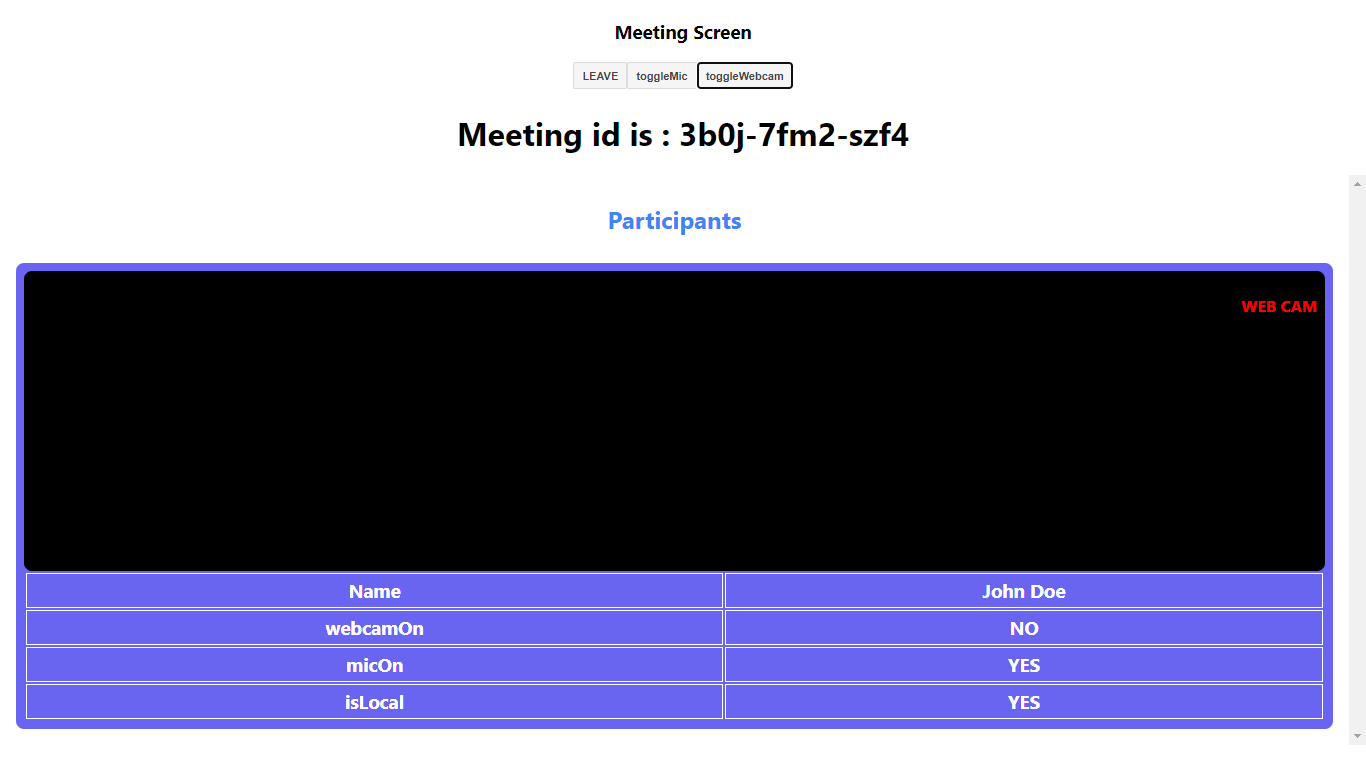
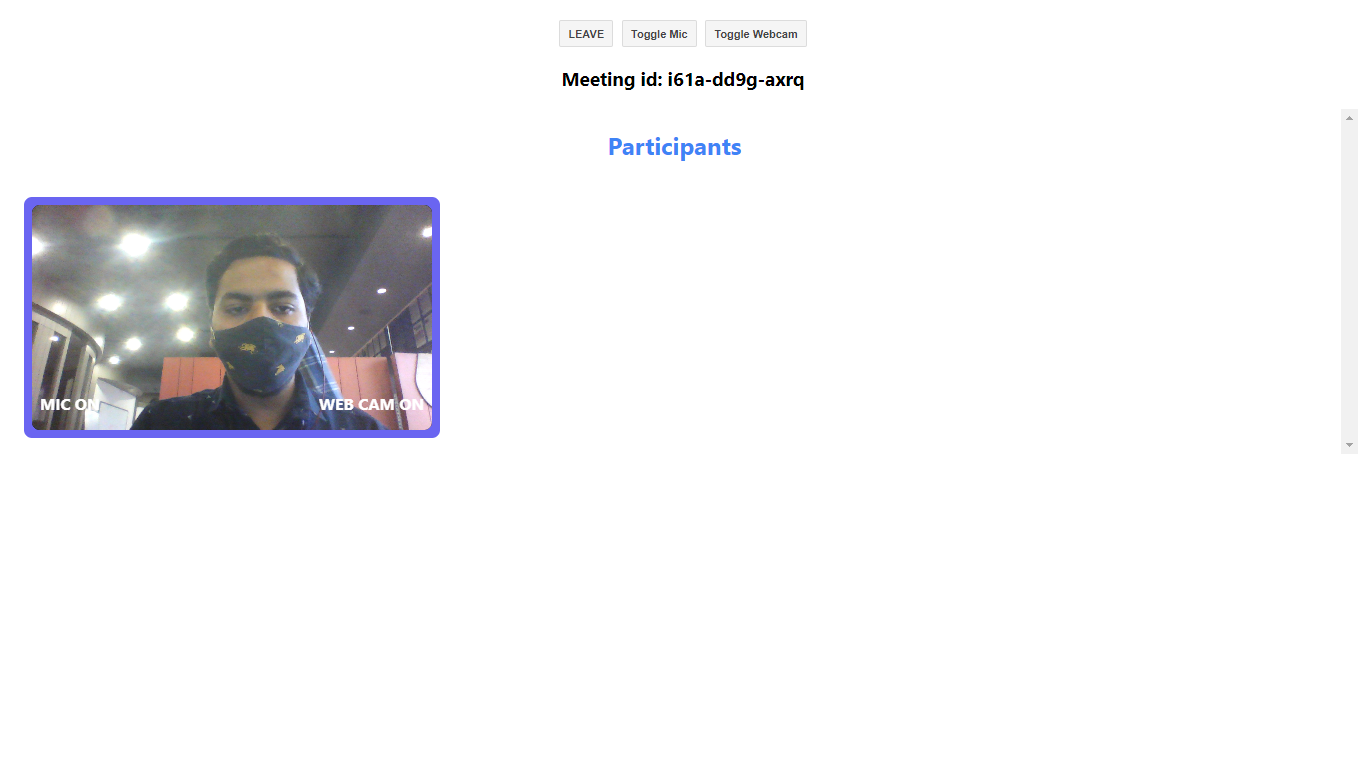
react quick start update

diff --git a/react_docs/guide/video-and-audio-calling-api-sdk/quick-start.md b/react_docs/guide/video-and-audio-calling-api-sdk/quick-start.md
@@ -116,15 +116,17 @@ The Joining screen will consist of:
 function App() {
   function JoinScreen(){
     return <>
-        <h3>Join Screen</h3>
-        <button onClick={async () => setMeetingId( await getMeetingId({ token }))} className="button">Create Meeting</button>
-        <br /><br />
-        <label htmlFor="meetingId">Meeting Id: </label>
-        <input type="text" id="meetingId" name="meetingId" /><br /><br />
-        <button onClick={() => {
-          setMeetingId(document.getElementById("meetingId").value)
-        }} className="button">Join Meeting</button>
-      </>
+      <button onClick={async () => setMeetingId( await getMeetingId({ token }))} className="button">Create Meeting</button>
+      &nbsp;&nbsp;&nbsp;&nbsp;&nbsp;
+      <input type="text" id="meetingId" name="meetingId" placeholder='Enter MeetingId'/>&nbsp;
+      <button onClick={() => {
+        if(!document.getElementById("meetingId").value){
+          alert("Meeting Id is required");
+          return;
+        }
+        setMeetingId(document.getElementById("meetingId").value)
+      }} className="button" >Join</button>
+    </>
   }
 
   return <JoinScreen/>;
@@ -283,13 +285,12 @@ const MeetingView = ({ onMeetingLeave }) => {
     <div
       style={{
         display: "flex",
-        flexDirection: "column",
-        backgroundColor: "#D6E9FE",
+        flexDirection: "column"
       }}
     >
       <div>
-        <button className={"button"} onClick={leave}>LEAVE</button>
-        <button className={"button"} onClick={toggleMic}> toggleMic</button>
+        <button className={"button"} onClick={leave}>LEAVE</button>&nbsp;&nbsp;
+        <button className={"button"} onClick={toggleMic}> toggleMic</button>&nbsp;&nbsp;
         <button className={"button"} onClick={toggleWebcam}>toggleWebcam</button>
         <h1>Meeting id is : {meetingId}</h1>
         <div style={{ display: "flex", flex: 1 }}>
@@ -323,21 +324,23 @@ const ParticipantsView = () => {
   const { participants } = useMeeting();
 
   return (
-    <div
-      style={{
-        display: "flex",
-        flexWrap: "wrap",
-        flexDirection: "column",
-        padding: "8px",
-      }}
-    >
+    <>
       <h2 style={{ color: "#3E84F6" }}>Participants</h2>
-      {[...participants.keys()].map((k) => (
-        <div style={{ display: "flex" }}>
-          <ParticipantView key={k} participantId={k} />
-        </div>
-      ))}
-    </div>
+      <div
+        style={{
+          display: "flex",
+          flexWrap: "wrap",
+          flexDirection: "row",
+          padding: "8px",
+        }}
+      >
+        {[...participants.keys()].map((k) => (
+          <div style={{ }}>
+              <ParticipantView key={k} participantId={k} />
+          </div>
+        ))}
+      </div>
+    </>
   );
 };
 ```
@@ -423,43 +426,28 @@ const ParticipantView = ({ participantId }) => {
   return (
     <div className="participant-view">
       <audio ref={micRef} autoPlay muted={isLocal} />
-
-      <div className="video-container">
-        <div style={{ position: "absolute", top: 0, left: 0, right: 0, bottom: 0 }} >
+      <div
+        className='video-container'>
+        <div
+          style={{ position: "absolute", top: 0, left: 0, right: 0, bottom: 0 }}>
           <ReactPlayer
-            height={"100%"}
+            height={"auto"}
             width={"100%"}
-            url={mediaStream}
+            url = {mediaStream}
             playsInline
             playing={true}
             className="video"
-            autoPlay />
-          <div style={{position: "absolute", top: "8px", right: "8px", }}>
-            <p style={{
-                color: webcamOn ? "green" : "red",
-                fontSize: 16, fontWeight: "bold", opacity: 1, }} >
-              WEB CAM
+            autoPlay          
+          />
+            <p style={{ position: "absolute",  right: "8px", bottom:"0px", color:"white", fontWeight:"bold"}}>
+              WEB CAM {webcamOn? " ON ": " OFF " }
             </p>
-          </div>
+
+            <p className="overlay" style={{ position: "absolute",  left: "8px", bottom:"0px" , color:"white", fontWeight:"bold"}}>
+              MIC {micOn? " ON ": " OFF " }
+            </p>
         </div>
       </div>
-      <table>
-        {[
-          { k: "Name", v: displayName },
-          { k: "webcamOn", v: webcamOn ? "YES" : "NO" },
-          { k: "micOn", v: micOn ? "YES" : "NO" },
-          { k: "isLocal", v: isLocal ? "YES" : "NO" },
-        ].map(({ k, v }) => (
-          <tr key={k}>
-            <td style={{ border: "1px solid #fff", padding: 4 }}>
-              <h3 style={{ margin: 0, padding: 0, color: "#fff" }}>{k}</h3>
-            </td>
-            <td style={{ border: "1px solid #fff", padding: 4 }}>
-              <h3 style={{ margin: 0, padding: 0, color: "#fff" }}>{v}</h3>
-            </td>
-          </tr>
-        ))}
-      </table>
     </div>
   );
 };

diff --git a/react_docs_versioned_docs/version-0.1.x/guide/video-and-audio-calling-api-sdk/quick-start.md b/react_docs_versioned_docs/version-0.1.x/guide/video-and-audio-calling-api-sdk/quick-start.md
@@ -116,15 +116,17 @@ The Joining screen will consist of:
 function App() {
   function JoinScreen(){
     return <>
-        <h3>Join Screen</h3>
-        <button onClick={async () => setMeetingId( await getMeetingId({ token }))} className="button">Create Meeting</button>
-        <br /><br />
-        <label htmlFor="meetingId">Meeting Id: </label>
-        <input type="text" id="meetingId" name="meetingId" /><br /><br />
-        <button onClick={() => {
-          setMeetingId(document.getElementById("meetingId").value)
-        }} className="button">Join Meeting</button>
-      </>
+      <button onClick={async () => setMeetingId( await getMeetingId({ token }))} className="button">Create Meeting</button>
+      &nbsp;&nbsp;&nbsp;&nbsp;&nbsp;
+      <input type="text" id="meetingId" name="meetingId" placeholder='Enter MeetingId'/>&nbsp;
+      <button onClick={() => {
+        if(!document.getElementById("meetingId").value){
+          alert("Meeting Id is required");
+          return;
+        }
+        setMeetingId(document.getElementById("meetingId").value)
+      }} className="button" >Join</button>
+    </>
   }
 
   return <JoinScreen/>;
@@ -283,13 +285,12 @@ const MeetingView = ({ onMeetingLeave }) => {
     <div
       style={{
         display: "flex",
-        flexDirection: "column",
-        backgroundColor: "#D6E9FE",
+        flexDirection: "column"
       }}
     >
       <div>
-        <button className={"button"} onClick={leave}>LEAVE</button>
-        <button className={"button"} onClick={toggleMic}> toggleMic</button>
+        <button className={"button"} onClick={leave}>LEAVE</button>&nbsp;&nbsp;
+        <button className={"button"} onClick={toggleMic}> toggleMic</button>&nbsp;&nbsp;
         <button className={"button"} onClick={toggleWebcam}>toggleWebcam</button>
         <h1>Meeting id is : {meetingId}</h1>
         <div style={{ display: "flex", flex: 1 }}>
@@ -323,21 +324,23 @@ const ParticipantsView = () => {
   const { participants } = useMeeting();
 
   return (
-    <div
-      style={{
-        display: "flex",
-        flexWrap: "wrap",
-        flexDirection: "column",
-        padding: "8px",
-      }}
-    >
+    <>
       <h2 style={{ color: "#3E84F6" }}>Participants</h2>
-      {[...participants.keys()].map((k) => (
-        <div style={{ display: "flex" }}>
-          <ParticipantView key={k} participantId={k} />
-        </div>
-      ))}
-    </div>
+      <div
+        style={{
+          display: "flex",
+          flexWrap: "wrap",
+          flexDirection: "row",
+          padding: "8px",
+        }}
+      >
+        {[...participants.keys()].map((k) => (
+          <div style={{ }}>
+              <ParticipantView key={k} participantId={k} />
+          </div>
+        ))}
+      </div>
+    </>
   );
 };
 ```
@@ -423,43 +426,28 @@ const ParticipantView = ({ participantId }) => {
   return (
     <div className="participant-view">
       <audio ref={micRef} autoPlay muted={isLocal} />
-
-      <div className="video-container">
-        <div style={{ position: "absolute", top: 0, left: 0, right: 0, bottom: 0 }} >
+      <div
+        className='video-container'>
+        <div
+          style={{ position: "absolute", top: 0, left: 0, right: 0, bottom: 0 }}>
           <ReactPlayer
-            height={"100%"}
+            height={"auto"}
             width={"100%"}
-            url={mediaStream}
+            url = {mediaStream}
             playsInline
             playing={true}
             className="video"
-            autoPlay />
-          <div style={{position: "absolute", top: "8px", right: "8px", }}>
-            <p style={{
-                color: webcamOn ? "green" : "red",
-                fontSize: 16, fontWeight: "bold", opacity: 1, }} >
-              WEB CAM
+            autoPlay          
+          />
+            <p style={{ position: "absolute",  right: "8px", bottom:"0px", color:"white", fontWeight:"bold"}}>
+              WEB CAM {webcamOn? " ON ": " OFF " }
             </p>
-          </div>
+
+            <p className="overlay" style={{ position: "absolute",  left: "8px", bottom:"0px" , color:"white", fontWeight:"bold"}}>
+              MIC {micOn? " ON ": " OFF " }
+            </p>
         </div>
       </div>
-      <table>
-        {[
-          { k: "Name", v: displayName },
-          { k: "webcamOn", v: webcamOn ? "YES" : "NO" },
-          { k: "micOn", v: micOn ? "YES" : "NO" },
-          { k: "isLocal", v: isLocal ? "YES" : "NO" },
-        ].map(({ k, v }) => (
-          <tr key={k}>
-            <td style={{ border: "1px solid #fff", padding: 4 }}>
-              <h3 style={{ margin: 0, padding: 0, color: "#fff" }}>{k}</h3>
-            </td>
-            <td style={{ border: "1px solid #fff", padding: 4 }}>
-              <h3 style={{ margin: 0, padding: 0, color: "#fff" }}>{v}</h3>
-            </td>
-          </tr>
-        ))}
-      </table>
     </div>
   );
 };
